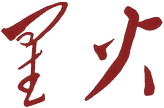
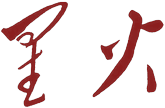
微调了星火的大小和间距

diff --git a/web/app.js b/web/app.js
@@ -227,7 +227,7 @@
 
   function formatExcerpt(text) {
     // 按逗号/分号拆成短句行（保留原分隔符）；"一阵风雷惊世界，满街红绿走旌旗。" → 两行
-    const parts = String(text).split(/([，；])/).map(function (p) {
+    const parts = String(text).split(/([，；。])/).map(function (p) {
       return p.trim();
     }).filter(Boolean);
     if (parts.length < 2) {
@@ -238,7 +238,8 @@
       rows.push(parts[i] + (parts[i + 1] || ""));
     }
     return rows.map(function (l) {
-      return '<span class="ex-line">' + escapeHtml(l) + "</span>";
+      // 标点符号包在单独的 span 中，用于视觉平衡补偿
+      return '<span class="ex-line">' + escapeHtml(l).replace(/([，；。])/g, '<span class="punct">$1</span>') + "</span>";
     }).join("");
   }
 
@@ -587,7 +588,7 @@
   }
 
   // —— 关于页
-  var CONTACT = { email: "3280302235@qq.com", github: "" }; // GitHub 仓库创建后填写
+  var CONTACT = { email: "3280302235@qq.com", github: "https://github.com/CristinaHan/MaoPoem" };
 
   function renderAbout() {
     document.getElementById("about-github-summary").textContent = CONTACT.github ? "已开放" : "整理中";

diff --git a/web/styles.css b/web/styles.css
@@ -214,6 +214,8 @@ html[data-bg="custom"] .phone::before {
   transition: opacity 0.28s ease;
 }
 .ex-line { display: block; }
+/* 标点符号视觉比重较小，用负左边距补偿视觉平衡 */
+.ex-line .punct { margin-left: -0.1em; }
 .excerpt:active { opacity: 0.7; }
 html:not(.fonts-ready) .brand,
 html:not(.fonts-ready) .excerpt,

diff --git a/tools/make-brand.py b/tools/make-brand.py
@@ -2,7 +2,7 @@
 """把手迹「星」「火」单字图（白底黑字）合成为透明底红字品牌图 web/brand.png。
 - 抠白底：亮度 → alpha（黑=255 不透明，白=0 透明）
 - 染红：颜色固定为品牌红 #8b1e1e（与 var(--red) 一致），alpha 保留笔迹浓淡
-- 合成：星高 108 / 火高 100（星笔画多视觉偏小，略放大平衡），垂直居中并排，字距 16px"""
+- 合成：星高 108 / 火高 92（星略大、火缩小，拉开大小差距），垂直居中并排，字距 24px"""
 from PIL import Image
 
 RED = (139, 30, 30)  # #8b1e1e
@@ -28,8 +28,8 @@ def load_char(path, target_h):
     return out.resize((max(1, int(out.width * ratio)), target_h), Image.LANCZOS)
 
 star = load_char("web/brand-crops/星.jpg", 108)  # 星笔画多、视觉偏小，略放大平衡
-fire = load_char("web/brand-crops/火.jpg", 100)
-GAP = 16  # 星火字距：拉开避免拥挤
+fire = load_char("web/brand-crops/火.jpg", 92)   # 火缩小，拉开与星的大小差距
+GAP = 24  # 星火字距：加大间距，更宽松
 W = star.width + GAP + fire.width
 H = max(star.height, fire.height)  # 画布取最高字高，避免放大后的星被裁
 canvas = Image.new("RGBA", (W, H), (0, 0, 0, 0))
